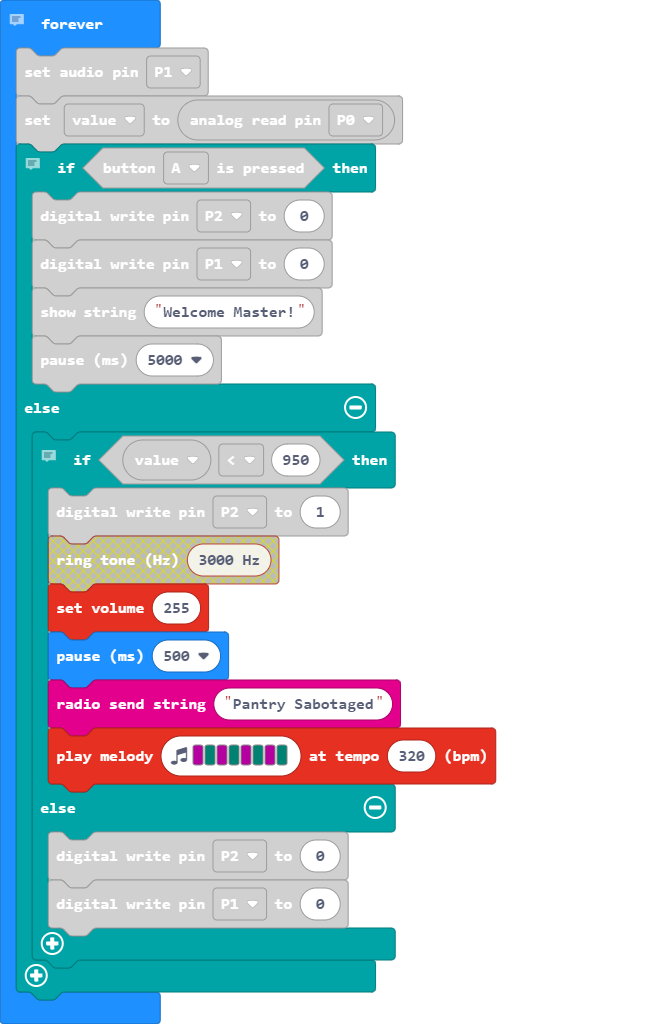
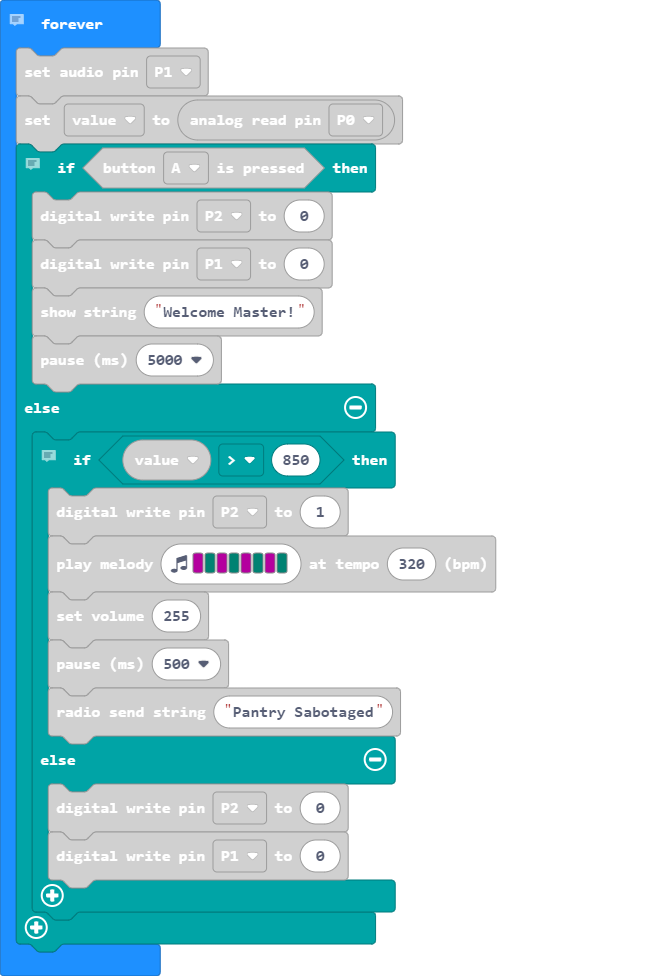
Update main.blocks, main.ts

Changed region(s): [[0.0307, 0.0, 0.7669, 0.9836], [0.2147, 0.9529, 0.2761, 0.9836]]

diff --git a/main.ts b/main.ts
@@ -13,7 +13,7 @@ basic.forever(function () {
         basic.pause(5000)
     } else {
         // When the flex sensor is less than 950 start the LED and buzzer. If not the buzzer and LED are off.
-        if (value < 950) {
+        if (value > 850) {
             pins.digitalWritePin(DigitalPin.P2, 1)
             music.playMelody("C F C F C F C F ", 320)
             music.setVolume(255)
